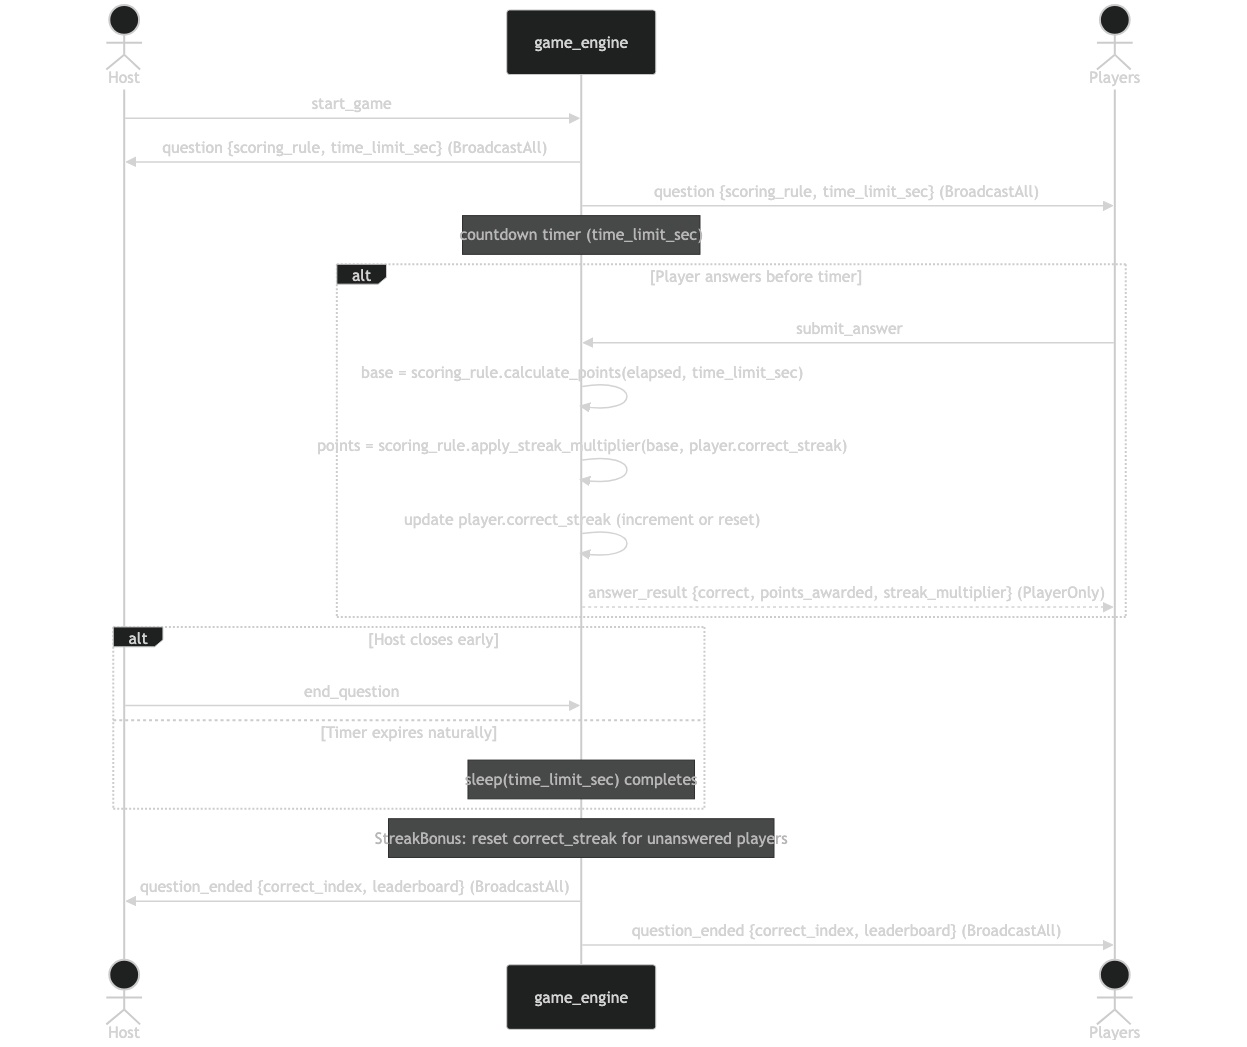
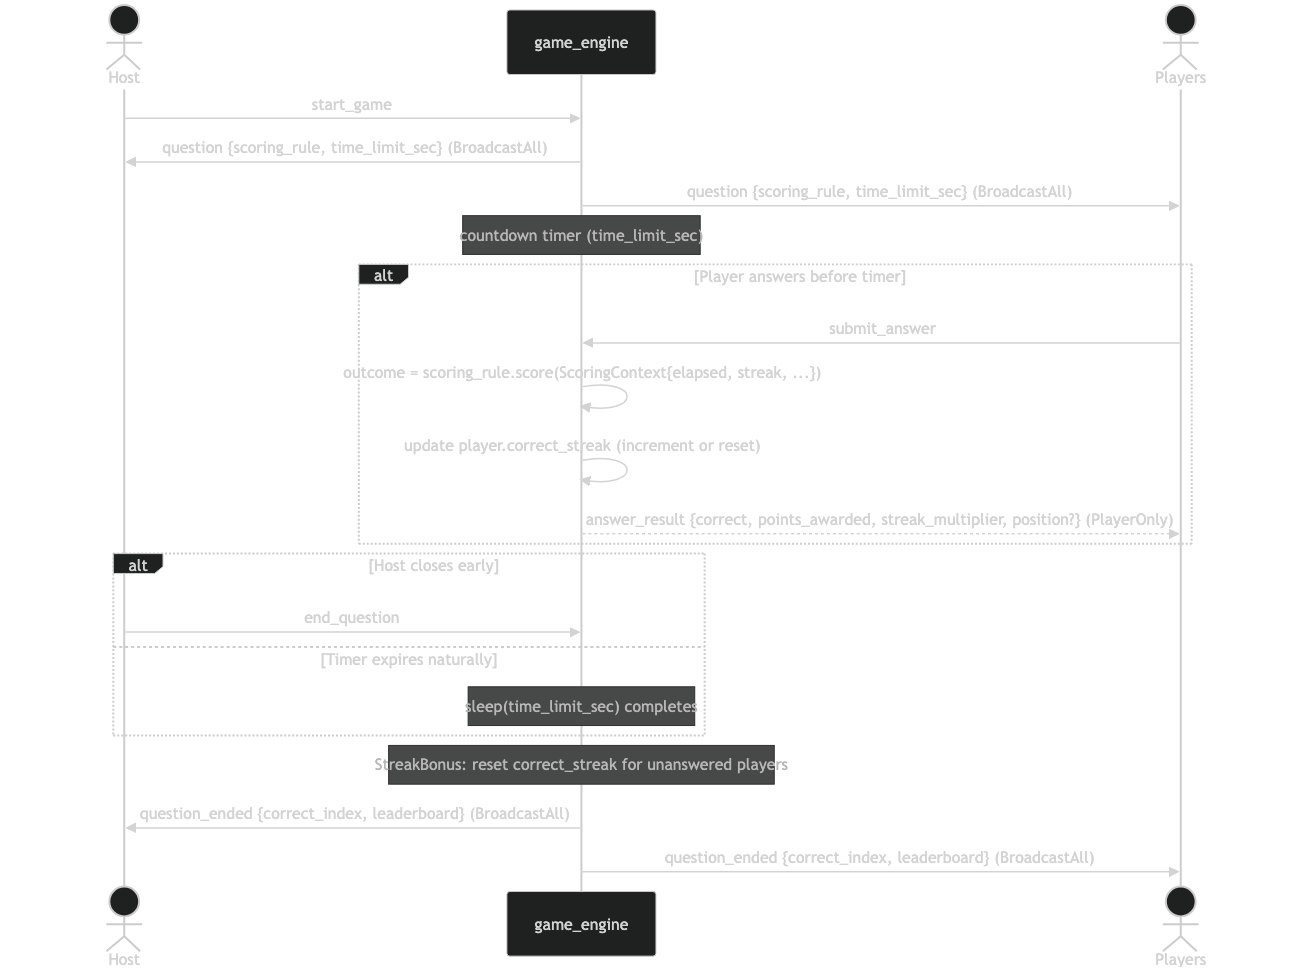
docs: update architecture and diagrams for scoring refactor
Replace calculate_points/apply_streak_multiplier references with the
unified score(ctx: &ScoringContext) → ScoringOutcome API. Add PositionRace
to the ScoringRule box in the architecture diagram.

diff --git a/docs/architecture.md b/docs/architecture.md
@@ -76,7 +76,7 @@ The application is a real-time multiplayer quiz game with a Rust backend and a R
 | Model | Fields |
 |-------|--------|
 | `GameSession` | `join_code`, `quiz`, `players`, `host_id`, `current_question`, `correct_answer_count`, `status`, `question_started`, `scoring_rule`, `time_limit_sec` |
-| `ScoringRule` | Enum: `SteppedDecay` (−250 pts every 5 s), `LinearDecay` (−50 pts/s), `FixedScore` (always max), `StreakBonus` (always 1000 pts base, multiplied by ×(1 + streak × 0.5)), `PositionRace` (1st→1000, 2nd→750, 3rd→500, 4th+→250). Implements `calculate_points`, `apply_streak_multiplier`, and `position_points` |
+| `ScoringRule` | Enum: `SteppedDecay` (−250 pts every 5 s), `LinearDecay` (−50 pts/s), `FixedScore` (always max), `StreakBonus` (always 1000 pts base, multiplied by ×(1 + streak × 0.5)), `PositionRace` (1st→1000, 2nd→750, 3rd→500, 4th+→250). All scoring logic is unified behind `score(ctx: &ScoringContext) -> ScoringOutcome`; each variant delegates to a private function with that signature. `ScoringContext` carries `correct`, `time_taken_ms`, `time_limit_sec`, `streak`, and `correct_answer_count`. `ScoringOutcome` returns `points`, `position` (`Option<u32>`, `Some` only for PositionRace correct answers), and `streak_multiplier` |
 | `Quiz` | Title, list of `Question` (text + options, one marked correct) |
 | `Player` | `display_name`, `avatar`, `score`, `correct_count`, `correct_streak`, `connection_status` |
 | `LeaderboardEntry` | Computed from `Player` slice — ranked by score, then name |
@@ -119,7 +119,7 @@ Each connected WebSocket task subscribes to this channel and forwards matching m
 
 ![Position race flow](images/flow-position-race.png)
 
-When `scoring_rule = PositionRace`, `game_engine` tracks the order of correct answers per question using `GameSession::correct_answer_count` (a `u32` that resets to 0 in `do_advance_question`). On each correct answer `correct_answer_count` is incremented first, then `ScoringRule::position_points(pos)` maps the resulting position to points (1→1000, 2→750, 3→500, 4+→250). The `answer_result` broadcast includes an optional `position` field (1-based rank) that is `Some(pos)` for correct answers and `None` for wrong or unanswered ones. The frontend `Question` component renders an ordinal rank badge (e.g., "2nd place") only when `scoringRule === "position_race"` and a `position` value is present.
+When `scoring_rule = PositionRace`, `game_engine` tracks the order of correct answers per question using `GameSession::correct_answer_count` (a `u32` that resets to 0 in `do_advance_question`). On each answer, `game_engine` calls `scoring_rule.score(&ScoringContext { correct, correct_answer_count, ... })`, which returns a `ScoringOutcome`. When `outcome.position` is `Some`, `correct_answer_count` is incremented by 1. Position-to-points mapping: 1→1000, 2→750, 3→500, 4+→250. The `answer_result` broadcast includes an optional `position` field (1-based rank) that is `Some(pos)` for correct answers and `None` for wrong or unanswered ones. The frontend `Question` component renders an ordinal rank badge (e.g., "2nd place") only when `scoringRule === "position_race"` and a `position` value is present.
 
 ---
 
